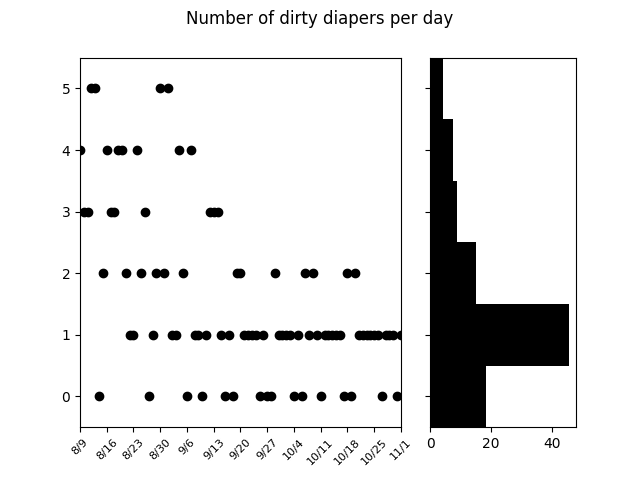
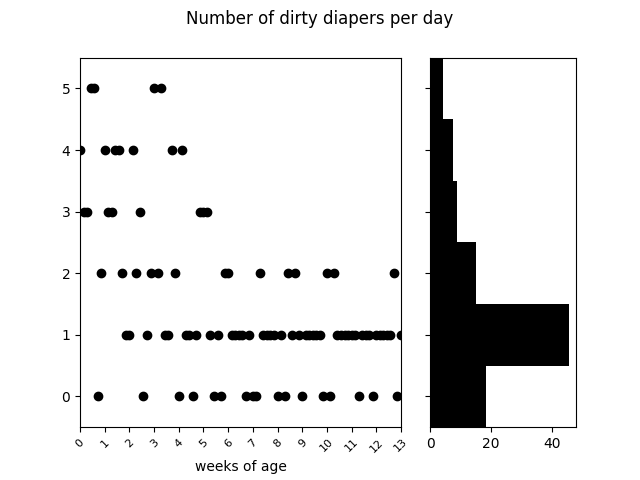
option to display age in weeks instead of dates

diff --git a/datita.py b/datita.py
@@ -7,7 +7,7 @@ import matplotlib
 import matplotlib.gridspec as gridspec
 
 global birthdate, last_date, all_dates, n_days, n_days_sleep
-global morning, night
+global morning, night, label_type
 
 def parse_date(date_string):
     # convert Hatch's time and date strings to datetime objects
@@ -218,15 +218,28 @@ def parse_dirty_diapers(lines_diapers):
     return data_diapers
 
 
-def week_ticks(data):
+def week_ticks(data, label_type):
     
     week_ticks = [data[0][0].date()]
-    week_tick_labels = ['{month:d}/{day:d}'.format(month=week_ticks[0].month, day=week_ticks[0].day)]
+    if label_type == 'date':
+        week_tick_labels = ['{month:d}/{day:d}'.format(month=week_ticks[0].month, day=week_ticks[0].day)]
+    elif label_type == 'week':
+        week_tick_labels = [0]
     for i in range(100):
         if week_ticks[-1] + timedelta(weeks=1) < data[-1][0].date():
             new_date = week_ticks[-1] + timedelta(weeks=1)
             week_ticks.append(new_date)
-            week_tick_labels.append('{month:d}/{day:d}'.format(month=new_date.month, day=new_date.day))
+            if label_type == 'date':
+                week_tick_labels.append('{month:d}/{day:d}'.format(month=new_date.month, day=new_date.day))
+            elif label_type == 'week':
+                week_tick_labels.append(i+1)
+    new_date = week_ticks[-1] + timedelta(weeks=1)
+    week_ticks.append(new_date)
+    if label_type == 'date':
+        week_tick_labels.append('{month:d}/{day:d}'.format(month=new_date.month, day=new_date.day))
+    elif label_type == 'week':
+        week_tick_labels.append(week_tick_labels[-1]+1)
+        plt.xlabel('weeks of age')
 
     plt.gca().tick_params(axis = 'x', which = 'major', labelsize = 8)
     plt.xticks(week_ticks, rotation=45)
@@ -364,7 +377,7 @@ def plot_sleep_24(data_sleep_24):
     # sleep schedule with day and night distinguished
     plt.figure()
     plt.title('Sleep schedule')
-    week_ticks(data_sleep_24)
+    week_ticks(data_sleep_24, label_type)
     time_ticks('y')
     for i in range(len(data_sleep_24)): # 
         x = data_sleep_24[i][0].date()
@@ -387,7 +400,7 @@ def plot_sleep_24(data_sleep_24):
 
     plt.figure()
     plt.title('Daily sleep')
-    week_ticks(data_sleep_24)
+    week_ticks(data_sleep_24, label_type)
     plt.ylim([0, 24.])
     plt.ylabel('hours')
     plt.plot(sleep_dates, total_sleep_24, 'k.')
@@ -458,13 +471,13 @@ def plot_feeding(data_feeding):
     plt.title('Feeding totals')
     plt.ylim([0, 30.])
     plt.ylabel('ounces')
-    week_ticks(data_feeding)
+    week_ticks(data_feeding, label_type)
     plt.plot(feeding_dates, feeding_totals, 'k.')
     plt.savefig('feeding_totals.png')
 
     plt.figure()
     plt.title('Intake as a percentage of weight')
-    week_ticks(data_feeding)
+    week_ticks(data_feeding, label_type)
     plt.plot([feeding_dates[0], feeding_dates[-1]], [16, 16], 'k--')
     for i in range(len(feeding_dates)):
         plt.plot(feeding_dates[i], feeding_totals[i]/data_weight[i][1]/16.*100., 'k.')
@@ -473,7 +486,7 @@ def plot_feeding(data_feeding):
     # amount per feeding
     plt.figure()
     plt.title('Amount per feeding')
-    week_ticks(data_feeding)
+    week_ticks(data_feeding, label_type)
     time_ticks('y')
     
     size = [2, 4, 6, 8, 10, 12]
@@ -540,7 +553,7 @@ def plot_feeding(data_feeding):
     
     plt.gca().legend(handles=handles, loc='lower left')    
     plt.ylim([0, 0.3])
-    week_ticks(data_feeding)
+    week_ticks(data_feeding, label_type)
     plt.savefig('feeding_time_of_day.png')
 
 
@@ -560,7 +573,7 @@ def plot_diapers(data_diapers):
     
     plt.subplot2grid((3,3), (0,0), colspan=2, rowspan=3)
     time_ticks('y')
-    week_ticks(data_diapers)
+    week_ticks(data_diapers, label_type)
     for i in range(len(data_diapers)):
             for j in range(len(data_diapers[i][1])):
                 plt.plot(data_diapers[i][0], data_diapers[i][1][j], 'ko')
@@ -579,7 +592,7 @@ def plot_diapers(data_diapers):
     gridspec.GridSpec(3,3)
 
     plt.subplot2grid((3,3), (0,0), colspan=2, rowspan=3)
-    week_ticks(data_diapers)
+    week_ticks(data_diapers, label_type)
     plt.ylim([-0.5, 5.5])
     plt.plot(all_dates, n_dirty, 'ko')
 
@@ -633,7 +646,7 @@ def plot_percentiles(measurement, gender, measurement_data, n_months):
         plt.plot(measurement_data[i][0], measurement_data[i][1], 'k.')
 
     plt.gca().legend(loc='best')
-    week_ticks(measurement_data)
+    week_ticks(measurement_data, label_type)
     plt.savefig('{measurement}.png'.format(measurement=measurement))
 
 
@@ -655,6 +668,7 @@ if __name__ == '__main__':
     colormap = plt.get_cmap('viridis').reversed()  
     morning = 8
     night = 20
+    label_type = 'week'
 
     [lines_sleeps, lines_feedings, lines_diapers, lines_weights, lines_lengths] = read_data(Hatch_filename)
     
